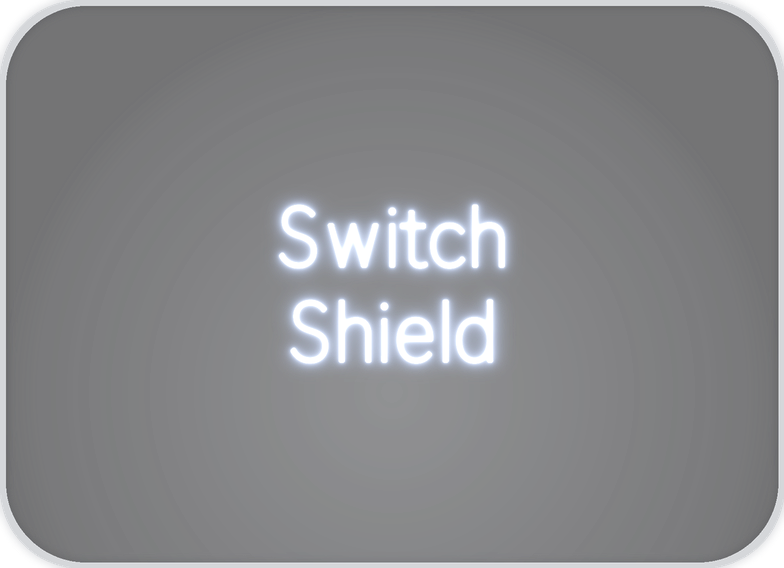
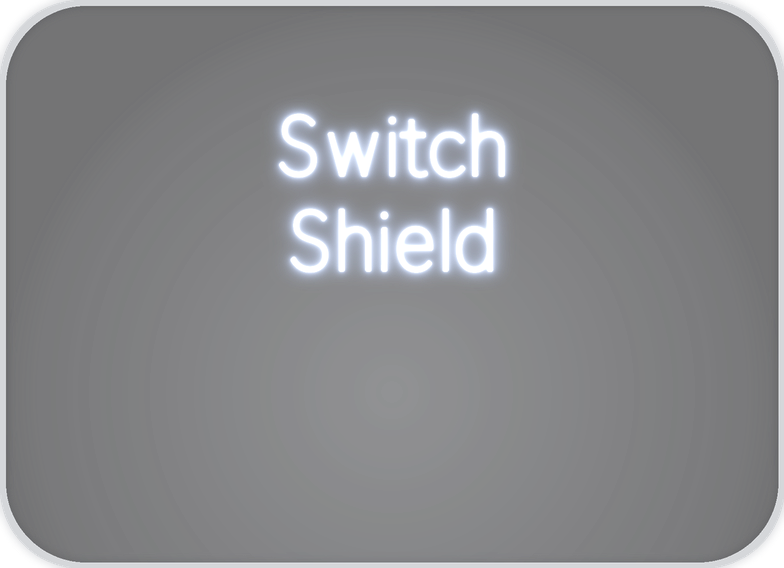
Shield pad label sits higher so the energy bar does not cover it

Changed region(s): [[0.3367, 0.1796, 0.6735, 0.6585]]

diff --git a/tools/art/neon_ui.py b/tools/art/neon_ui.py
@@ -381,7 +381,8 @@ def build_pads():
     for name, text in [('padsShield', 'Switch\nShield'), ('padsItem', 'Use Item'), ('padsShieldEsp', 'Cambiar\nEscudo'), ('padsItemEsp', 'Usar Objeto')]:
         t = glass_pad(392, 284)
         m = font.mask(text, 40)
-        center_text(t, m, t.width / 2, t.height / 2, TUBE_WHITE, size=40)
+        # the two-line Switch Shield label sits higher so the energy bar under the pad never covers it
+        center_text(t, m, t.width / 2, t.height * (0.34 if '\n' in text else 0.5), TUBE_WHITE, size=40)
         N.finish(t, 392, 284, 'hud/%s.png' % name)
 
 
